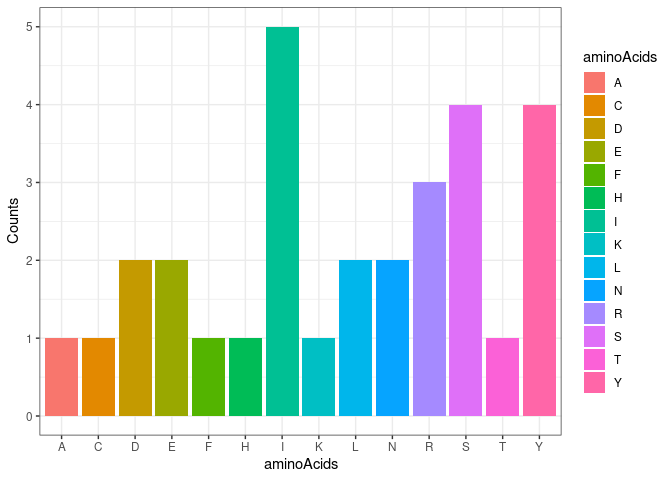
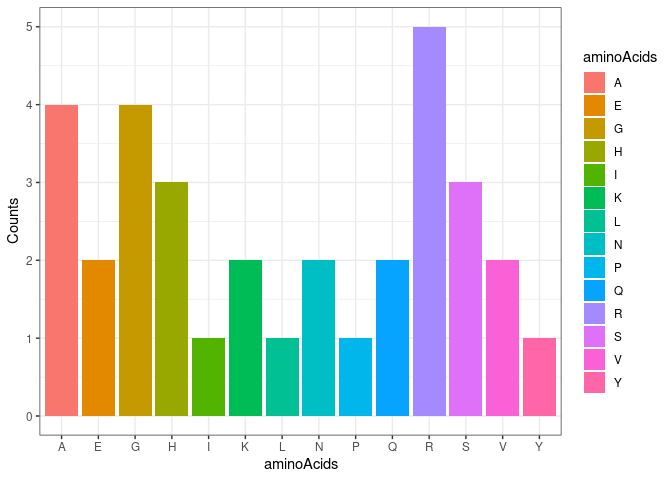
extra fixes in readme

diff --git a/README.md b/README.md
@@ -26,7 +26,7 @@ nucleotides and assign it to a variable:
 ``` r
 dnaSequence <- randomDNASequence(100)
 dnaSequence
-#> [1] "AACTATTTCGAGGCAATACGCTAGCGCTATTAATCGTCCCTGAGCGATATAGAATCAATATACGATTAACACTATATATGTAATATCACCCGTCTGAAAA"
+#> [1] "ATCTCAGCGCAAGGCGGGGCCGTGAGGAAGGGTTTATCTAAGCACGAACAAGGGGCCTATCGGGCTAGTAATCCGAGGCATGAAAACCATCGTGTACGAT"
 ```
 
 ## Transcribing our DNA sequence with `DnaToRna`
@@ -38,7 +38,7 @@ transcribes it to RNA.
 ``` r
 rnaSequence <- DnaToRna(dnaSequence)
 rnaSequence
-#> [1] "AACUAUUUCGAGGCAAUACGCUAGCGCUAUUAAUCGUCCCUGAGCGAUAUAGAAUCAAUAUACGAUUAACACUAUAUAUGUAAUAUCACCCGUCUGAAAA"
+#> [1] "AUCUCAGCGCAAGGCGGGGCCGUGAGGAAGGGUUUAUCUAAGCACGAACAAGGGGCCUAUCGGGCUAGUAAUCCGAGGCAUGAAAACCAUCGUGUACGAU"
 ```
 
 ## Detecting the codons in the RNA strand with `getCodons`
@@ -49,9 +49,9 @@ rnaSequence
 ``` r
 codonSequence <- getCodons(rnaSequence)
 codonSequence
-#>  [1] "AAC" "UAU" "UUC" "GAG" "GCA" "AUA" "CGC" "UAG" "CGC" "UAU" "UAA" "UCG"
-#> [13] "UCC" "CUG" "AGC" "GAU" "AUA" "GAA" "UCA" "AUA" "UAC" "GAU" "UAA" "CAC"
-#> [25] "UAU" "AUA" "UGU" "AAU" "AUC" "ACC" "CGU" "CUG" "AAA"
+#>  [1] "AUC" "UCA" "GCG" "CAA" "GGC" "GGG" "GCC" "GUG" "AGG" "AAG" "GGU" "UUA"
+#> [13] "UCU" "AAG" "CAC" "GAA" "CAA" "GGG" "GCC" "UAU" "CGG" "GCU" "AGU" "AAU"
+#> [25] "CCG" "AGG" "CAU" "GAA" "AAC" "CAU" "CGU" "GUA" "CGA"
 ```
 
 ## Translating the codon sequence into a peptide chain with `translateRNASequence`
@@ -65,7 +65,7 @@ will be represented with an asterisk \* in the output.
 ``` r
 peptideSequence <- translateRNASequence(codonSequence)
 peptideSequence
-#> [1] "NYFEAIR*RY*SSLSDIESIYD*HYICNITRLK"
+#> [1] "ISAQGGAVRKGLSKHEQGAYRASNPRHENHRVR"
 ```
 
 ## `plotFrequencies` analyses the frequency of amino acids in youor polypeptide chain
@@ -83,3 +83,45 @@ plotFrequencies(peptideSequence)
 ```
 
 <img src="man/figures/README-unnamed-chunk-8-1.png" width="100%" />
+
+# Addenda
+
+## Discussion of Task 4
+
+1.  Each function has been previously described.
+
+2.  Regarding the three packages as dependencies in function 5
+    (`plotFrequencies`), it was achieved by writing the following in the
+    console:
+
+    -   `usethis::use_package("magrittr")`
+    -   `usethis::use_package("stringr")`
+    -   `usethis::use_package("ggplot2")`
+
+    The pipe operator was included by writing `@importFrom magrittr %>%`
+
+3.  Including dependencies is necessary whenever the package uses
+    functions contained in other packages. For example, this package
+    uses functions from `ggplot2`, so its inclusion in the dependencies
+    is necessary. However, it is a good idea to try and reduce the
+    number of dependencies, as anyone using our package will be forced
+    to download all of them. The more dependencies there are, the more
+    time it will take for people to be able to use the package.
+    Furthermore, if these dependencies have dependencies of their own,
+    it will take even more time to load.
+
+4.  The difference between using `@importFrom package function` and
+    `package::function()`is that the former allows to use the function
+    repeatedly after importing, while the latter is for a one-time use.
+
+## Other functions that could be included in the package
+
+A function could be created to discriminate the amino acids in the
+peptide sequence based on their charges. Then, this could be used in the
+`plotFrequencies` function to create a plot stratified by the nature of
+the amino acids present in our peptide.
+
+In addition, it would also be useful to include a function to obtain the
+complementary strand of both the DNA and RNA, as well as another
+function that could transform RNA to DNA just like we have one that
+transcribes DNA to RNA.
